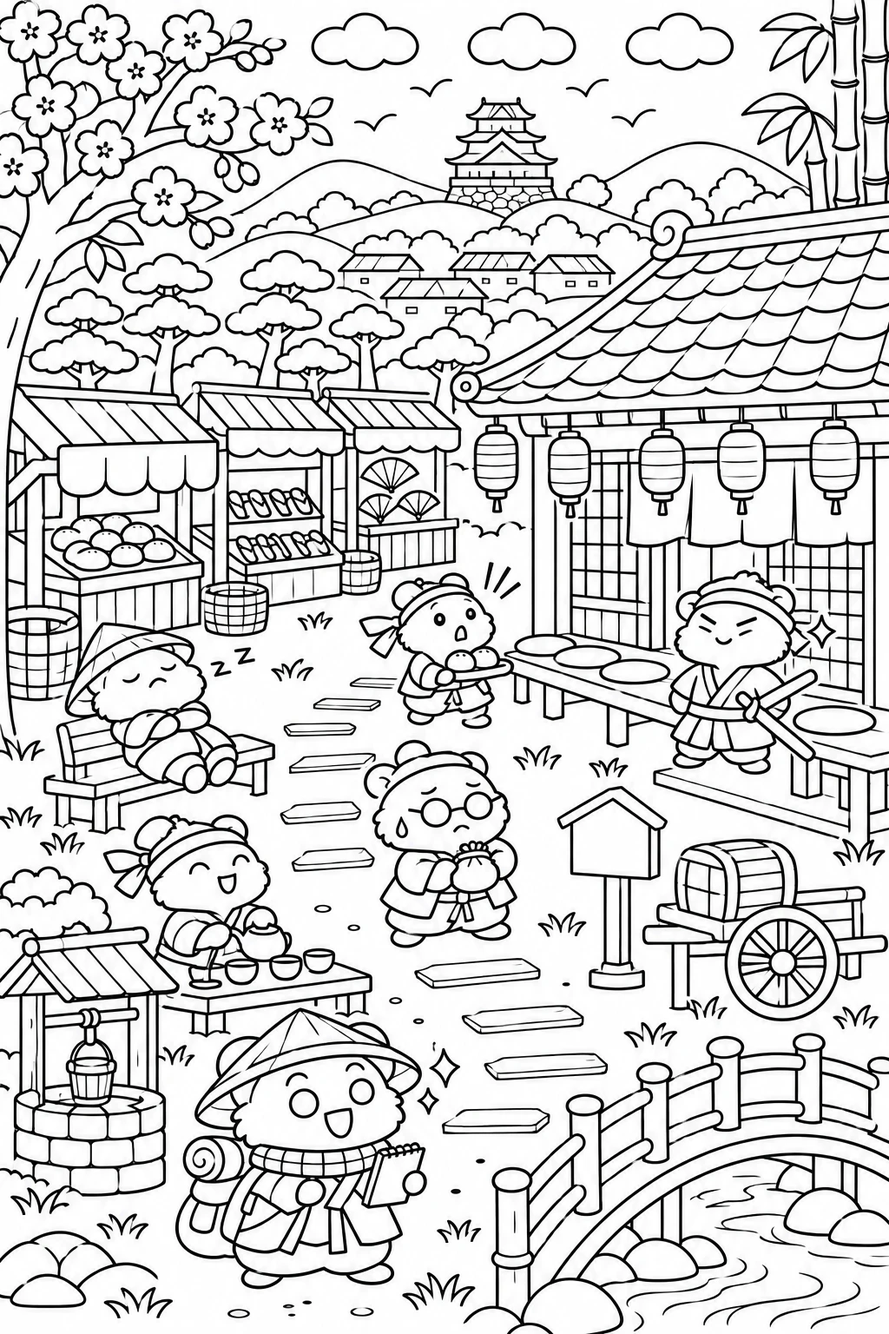
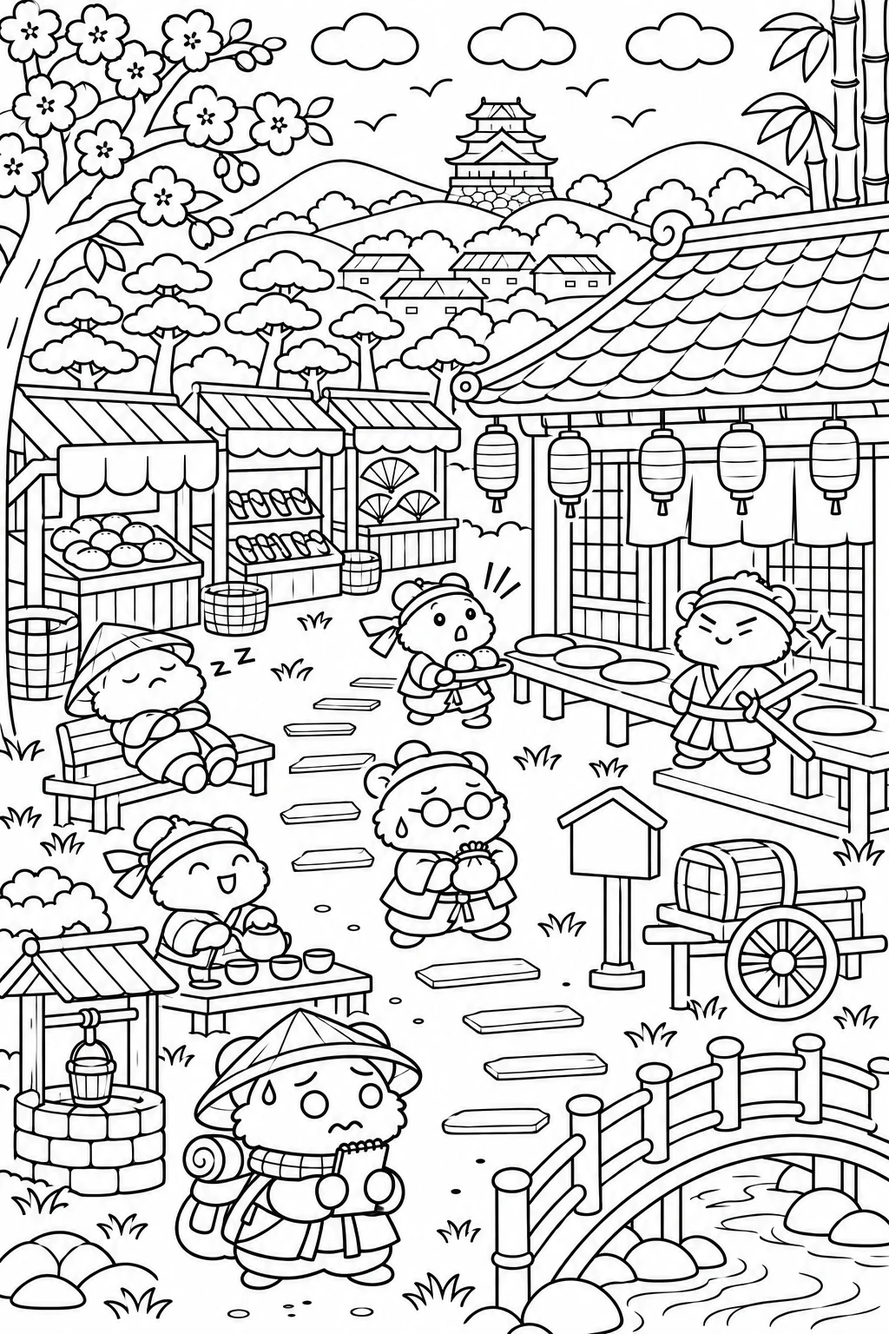
Add 30-emotion library with per-scene rotation; update samurai page
Claude-Session: https://claude.ai/code/session_01NtbvEdzR1nxo1XkVFvAmPr

diff --git a/coloring-book/ai_workflow/make_emotions.py b/coloring-book/ai_workflow/make_emotions.py
@@ -1,0 +1,100 @@
+#!/usr/bin/env python3
+"""Tạo EMOTIONS.md: thư viện 30 biểu cảm hamster và bảng xoay vòng để mỗi trang mỗi con một cảm xúc mới.
+
+Chạy:  python3 ai_workflow/make_emotions.py
+"""
+from __future__ import annotations
+
+from pathlib import Path
+
+HERE = Path(__file__).resolve().parent
+
+# (tên, công thức vẽ khuôn mặt: lông mày, mắt, miệng, dấu phụ) — toàn nét đơn, mắt luôn là vòng rỗng
+EMOTIONS = [
+    ("Vui sướng", "eyebrows relaxed and rounded; eyes as two happy closed arcs; mouth wide open smile; two small sparkle marks"),
+    ("Ngạc nhiên", "eyebrows raised high; eyes as two wide open empty circles; mouth a small open oval; three short burst lines by the head"),
+    ("Lo lắng", "eyebrows tilted upward in the middle; eyes as small empty circles looking sideways; mouth a short wavy line; one sweat drop"),
+    ("Cáu kỉnh", "eyebrows slanted down toward the center; eyes as half-closed arcs; mouth a short downward line; small anger mark (four short lines in a cross)"),
+    ("Buồn ngủ", "no eyebrows; eyes as closed downward arcs; small relaxed mouth; one small 'z' mark drawn as a simple zigzag"),
+    ("Tập trung", "eyebrows slightly lowered; eyes as small empty circles looking at the task; tongue sticking out of a small mouth"),
+    ("Tự tin", "one eyebrow raised; eyes as half-moon arcs; a confident smirk drawn as a one-sided curved line; small shine mark"),
+    ("Buồn", "eyebrows tilted upward in the middle and low at the sides; eyes as small empty circles looking down; mouth a small downward curve; one tear drop"),
+    ("Khóc", "eyebrows tilted upward; eyes as tightly closed arcs; mouth wide open in a wobbly shape; two tear streams"),
+    ("Xấu hổ", "eyebrows tilted; eyes as small circles looking away; mouth a tiny wavy line; three short hatch marks on the cheek drawn as simple lines (no shading)"),
+    ("Sợ hãi", "eyebrows raised and tilted; eyes as wide empty circles with tiny circles inside; mouth a trembling zigzag line; shiver lines on both sides of the head"),
+    ("Tò mò", "one eyebrow raised; eyes as big empty circles looking up; mouth a tiny 'o'; a small question-mark shape drawn as a plain curved line with a dot"),
+    ("Bối rối", "eyebrows uneven; eyes as spirals (outline only); mouth a crooked line; a few small swirl marks"),
+    ("Nghi ngờ", "one eyebrow raised, one lowered; eyes as narrow slits; mouth a flat line shifted to one side"),
+    ("Đắc ý", "eyebrows lifted; eyes as upward arcs; wide grin with a visible tooth line; small shine marks"),
+    ("Thèm ăn", "eyebrows raised; eyes as big empty circles with small star shapes inside; mouth open with a small drool drop"),
+    ("Mệt mỏi", "eyebrows drooping; eyes as half-closed arcs; mouth a long flat wobbly line; one small sweat drop and puff marks"),
+    ("Hào hứng", "eyebrows high; eyes as big empty circles; mouth wide open in a shout; small motion lines around the head"),
+    ("Mơ màng", "eyebrows soft; eyes as closed upward arcs; small smile; two small heart outlines floating nearby"),
+    ("Tức giận", "eyebrows slanted sharply down; eyes as narrow slits; mouth a wavy clenched line showing a tooth line; two anger marks"),
+    ("Hoảng hốt", "eyebrows high and tilted; eyes as tiny empty circles; mouth wide open in a wobbly oval; four sweat drops flying outward"),
+    ("Thanh thản", "no eyebrows or soft ones; eyes as closed downward arcs; small calm smile; a small leaf or flower outline nearby"),
+    ("Tinh nghịch", "one eyebrow raised; eyes as one open circle and one wink arc; tongue sticking out; small shine mark"),
+    ("Cảm động", "eyebrows tilted upward; eyes as arcs with wet shapes; mouth a small wobbly smile; two tear drops and two sparkle marks"),
+    ("Ngượng ngùng", "eyebrows tilted; eyes closed arcs; mouth a tiny crooked smile; one sweat drop and a hand scratching the back of the head"),
+    ("Kiêu hãnh", "chin lifted; eyebrows calm; eyes as closed arcs; closed smile; arms crossed; small shine marks"),
+    ("Cô đơn", "eyebrows low; eyes as small empty circles looking to the side; mouth a small flat line; plain empty space around it"),
+    ("Hồi hộp", "eyebrows tilted upward; eyes as wide empty circles; mouth a tight small line; two sweat drops and a few shiver lines"),
+    ("Nhẹ nhõm", "eyebrows lifted then relaxed; eyes as closed arcs; mouth a smile with a small exhale puff drawn as a cloud outline"),
+    ("Quyết tâm", "eyebrows slanted down firmly; eyes as steady empty circles; mouth a firm straight line; a fist raised; small flame-like motion lines"),
+]
+
+# Các cảm xúc đã dùng trong trang ninja/học đường/samurai (để tránh lặp trong các trang sau)
+USED = {"Ngạc nhiên", "Lo lắng", "Cáu kỉnh", "Buồn ngủ", "Tập trung", "Vui sướng", "Tự tin"}
+
+SCENES = [
+    (4, "Thể thao: giải bóng chuyền trên bãi cát"),
+    (5, "Cô gái phép thuật: biến hình bằng bút thần (nhân vật do bạn đặt)"),
+    (6, "Thi nấu ăn: quán ramen và sân thi nấu"),
+    (7, "Robot: xưởng robot dễ thương"),
+    (8, "Trinh thám: phố đêm, tìm manh mối"),
+    (9, "Âm nhạc: sân khấu lễ hội mùa hè"),
+    (10, "Cắm trại: hồ núi, lều, bếp củi"),
+]
+
+
+def main():
+    unused = [e for e in EMOTIONS if e[0] not in USED]
+    used = [e for e in EMOTIONS if e[0] in USED]
+    pool = unused + used                      # dùng hết cảm xúc chưa dùng trước, rồi mới lặp lại
+    out = []
+    out.append("# Thư viện 30 biểu cảm hamster\n")
+    out.append("Mỗi con mỗi trang một cảm xúc **khác trang trước**. Công thức đều là **nét đơn, mắt rỗng** để người tô thoải mái. "
+               "Chú lữ khách mỗi trang một cảm xúc riêng (ô cuối của mỗi bảng).\n")
+    out.append("## 30 biểu cảm\n")
+    out.append("| # | Cảm xúc | Công thức vẽ (tiếng Anh, dán vào prompt) |\n|---|---|---|")
+    for i, (n, r) in enumerate(EMOTIONS, 1):
+        mark = " *(đã dùng)*" if n in USED else ""
+        out.append(f"| {i} | {n}{mark} | {r} |")
+    out.append("\n## Phân công cho cảnh 4 đến 10\n")
+    out.append(f"Có {len(unused)} cảm xúc chưa dùng. Mỗi trang cần 6 cảm xúc (5 hamster và chú lữ khách), nên từ trang thứ 4 trở đi bắt đầu lặp lại một ít, "
+               "nhưng luôn ở con khác và trang khác.\n")
+    idx = 0
+    for sn, title in SCENES:
+        picks = []
+        for _ in range(6):
+            picks.append(pool[idx % len(pool)])
+            idx += 1
+        out.append(f"### Cảnh {sn}: {title}\n")
+        out.append("| Con | Cảm xúc | Công thức |\n|---|---|---|")
+        for k, (n, r) in enumerate(picks):
+            who = "Chú lữ khách" if k == 5 else f"Hamster {k + 1}"
+            out.append(f"| {who} | {n} | {r} |")
+        out.append("\nKhối dán vào prompt (dán sau phần Characters, thay cho mọi mô tả cảm xúc khác):\n")
+        out.append("```")
+        out.append("EMOTIONS: every hamster has a DIFFERENT emotion, one per hamster, and each emotion must clearly differ from the others on this page. "
+                   "Assign them to the hamsters in the way that fits what each one is doing. Keep every face simple: eyes are empty outlines only (never filled black, no pupils, no highlight dots), no blush, no gray.")
+        for k, (n, r) in enumerate(picks):
+            who = "The traveler hamster in front" if k == 5 else f"Hamster {k + 1}"
+            out.append(f"- {who}: {n.upper()}. {r}.")
+        out.append("```\n")
+    (HERE / "EMOTIONS.md").write_text("\n".join(out), encoding="utf-8")
+    print("OK ->", HERE / "EMOTIONS.md", "|", len(unused), "cảm xúc chưa dùng")
+
+
+if __name__ == "__main__":
+    main()

diff --git a/coloring-book/ai_workflow/EMOTIONS.md b/coloring-book/ai_workflow/EMOTIONS.md
@@ -1,0 +1,203 @@
+# Thư viện 30 biểu cảm hamster
+
+Mỗi con mỗi trang một cảm xúc **khác trang trước**. Công thức đều là **nét đơn, mắt rỗng** để người tô thoải mái. Chú lữ khách mỗi trang một cảm xúc riêng (ô cuối của mỗi bảng).
+
+## 30 biểu cảm
+
+| # | Cảm xúc | Công thức vẽ (tiếng Anh, dán vào prompt) |
+|---|---|---|
+| 1 | Vui sướng *(đã dùng)* | eyebrows relaxed and rounded; eyes as two happy closed arcs; mouth wide open smile; two small sparkle marks |
+| 2 | Ngạc nhiên *(đã dùng)* | eyebrows raised high; eyes as two wide open empty circles; mouth a small open oval; three short burst lines by the head |
+| 3 | Lo lắng *(đã dùng)* | eyebrows tilted upward in the middle; eyes as small empty circles looking sideways; mouth a short wavy line; one sweat drop |
+| 4 | Cáu kỉnh *(đã dùng)* | eyebrows slanted down toward the center; eyes as half-closed arcs; mouth a short downward line; small anger mark (four short lines in a cross) |
+| 5 | Buồn ngủ *(đã dùng)* | no eyebrows; eyes as closed downward arcs; small relaxed mouth; one small 'z' mark drawn as a simple zigzag |
+| 6 | Tập trung *(đã dùng)* | eyebrows slightly lowered; eyes as small empty circles looking at the task; tongue sticking out of a small mouth |
+| 7 | Tự tin *(đã dùng)* | one eyebrow raised; eyes as half-moon arcs; a confident smirk drawn as a one-sided curved line; small shine mark |
+| 8 | Buồn | eyebrows tilted upward in the middle and low at the sides; eyes as small empty circles looking down; mouth a small downward curve; one tear drop |
+| 9 | Khóc | eyebrows tilted upward; eyes as tightly closed arcs; mouth wide open in a wobbly shape; two tear streams |
+| 10 | Xấu hổ | eyebrows tilted; eyes as small circles looking away; mouth a tiny wavy line; three short hatch marks on the cheek drawn as simple lines (no shading) |
+| 11 | Sợ hãi | eyebrows raised and tilted; eyes as wide empty circles with tiny circles inside; mouth a trembling zigzag line; shiver lines on both sides of the head |
+| 12 | Tò mò | one eyebrow raised; eyes as big empty circles looking up; mouth a tiny 'o'; a small question-mark shape drawn as a plain curved line with a dot |
+| 13 | Bối rối | eyebrows uneven; eyes as spirals (outline only); mouth a crooked line; a few small swirl marks |
+| 14 | Nghi ngờ | one eyebrow raised, one lowered; eyes as narrow slits; mouth a flat line shifted to one side |
+| 15 | Đắc ý | eyebrows lifted; eyes as upward arcs; wide grin with a visible tooth line; small shine marks |
+| 16 | Thèm ăn | eyebrows raised; eyes as big empty circles with small star shapes inside; mouth open with a small drool drop |
+| 17 | Mệt mỏi | eyebrows drooping; eyes as half-closed arcs; mouth a long flat wobbly line; one small sweat drop and puff marks |
+| 18 | Hào hứng | eyebrows high; eyes as big empty circles; mouth wide open in a shout; small motion lines around the head |
+| 19 | Mơ màng | eyebrows soft; eyes as closed upward arcs; small smile; two small heart outlines floating nearby |
+| 20 | Tức giận | eyebrows slanted sharply down; eyes as narrow slits; mouth a wavy clenched line showing a tooth line; two anger marks |
+| 21 | Hoảng hốt | eyebrows high and tilted; eyes as tiny empty circles; mouth wide open in a wobbly oval; four sweat drops flying outward |
+| 22 | Thanh thản | no eyebrows or soft ones; eyes as closed downward arcs; small calm smile; a small leaf or flower outline nearby |
+| 23 | Tinh nghịch | one eyebrow raised; eyes as one open circle and one wink arc; tongue sticking out; small shine mark |
+| 24 | Cảm động | eyebrows tilted upward; eyes as arcs with wet shapes; mouth a small wobbly smile; two tear drops and two sparkle marks |
+| 25 | Ngượng ngùng | eyebrows tilted; eyes closed arcs; mouth a tiny crooked smile; one sweat drop and a hand scratching the back of the head |
+| 26 | Kiêu hãnh | chin lifted; eyebrows calm; eyes as closed arcs; closed smile; arms crossed; small shine marks |
+| 27 | Cô đơn | eyebrows low; eyes as small empty circles looking to the side; mouth a small flat line; plain empty space around it |
+| 28 | Hồi hộp | eyebrows tilted upward; eyes as wide empty circles; mouth a tight small line; two sweat drops and a few shiver lines |
+| 29 | Nhẹ nhõm | eyebrows lifted then relaxed; eyes as closed arcs; mouth a smile with a small exhale puff drawn as a cloud outline |
+| 30 | Quyết tâm | eyebrows slanted down firmly; eyes as steady empty circles; mouth a firm straight line; a fist raised; small flame-like motion lines |
+
+## Phân công cho cảnh 4 đến 10
+
+Có 23 cảm xúc chưa dùng. Mỗi trang cần 6 cảm xúc (5 hamster và chú lữ khách), nên từ trang thứ 4 trở đi bắt đầu lặp lại một ít, nhưng luôn ở con khác và trang khác.
+
+### Cảnh 4: Thể thao: giải bóng chuyền trên bãi cát
+
+| Con | Cảm xúc | Công thức |
+|---|---|---|
+| Hamster 1 | Buồn | eyebrows tilted upward in the middle and low at the sides; eyes as small empty circles looking down; mouth a small downward curve; one tear drop |
+| Hamster 2 | Khóc | eyebrows tilted upward; eyes as tightly closed arcs; mouth wide open in a wobbly shape; two tear streams |
+| Hamster 3 | Xấu hổ | eyebrows tilted; eyes as small circles looking away; mouth a tiny wavy line; three short hatch marks on the cheek drawn as simple lines (no shading) |
+| Hamster 4 | Sợ hãi | eyebrows raised and tilted; eyes as wide empty circles with tiny circles inside; mouth a trembling zigzag line; shiver lines on both sides of the head |
+| Hamster 5 | Tò mò | one eyebrow raised; eyes as big empty circles looking up; mouth a tiny 'o'; a small question-mark shape drawn as a plain curved line with a dot |
+| Chú lữ khách | Bối rối | eyebrows uneven; eyes as spirals (outline only); mouth a crooked line; a few small swirl marks |
+
+Khối dán vào prompt (dán sau phần Characters, thay cho mọi mô tả cảm xúc khác):
+
+```
+EMOTIONS: every hamster has a DIFFERENT emotion, one per hamster, and each emotion must clearly differ from the others on this page. Assign them to the hamsters in the way that fits what each one is doing. Keep every face simple: eyes are empty outlines only (never filled black, no pupils, no highlight dots), no blush, no gray.
+- Hamster 1: BUỒN. eyebrows tilted upward in the middle and low at the sides; eyes as small empty circles looking down; mouth a small downward curve; one tear drop.
+- Hamster 2: KHÓC. eyebrows tilted upward; eyes as tightly closed arcs; mouth wide open in a wobbly shape; two tear streams.
+- Hamster 3: XẤU HỔ. eyebrows tilted; eyes as small circles looking away; mouth a tiny wavy line; three short hatch marks on the cheek drawn as simple lines (no shading).
+- Hamster 4: SỢ HÃI. eyebrows raised and tilted; eyes as wide empty circles with tiny circles inside; mouth a trembling zigzag line; shiver lines on both sides of the head.
+- Hamster 5: TÒ MÒ. one eyebrow raised; eyes as big empty circles looking up; mouth a tiny 'o'; a small question-mark shape drawn as a plain curved line with a dot.
+- The traveler hamster in front: BỐI RỐI. eyebrows uneven; eyes as spirals (outline only); mouth a crooked line; a few small swirl marks.
+```
+
+### Cảnh 5: Cô gái phép thuật: biến hình bằng bút thần (nhân vật do bạn đặt)
+
+| Con | Cảm xúc | Công thức |
+|---|---|---|
+| Hamster 1 | Nghi ngờ | one eyebrow raised, one lowered; eyes as narrow slits; mouth a flat line shifted to one side |
+| Hamster 2 | Đắc ý | eyebrows lifted; eyes as upward arcs; wide grin with a visible tooth line; small shine marks |
+| Hamster 3 | Thèm ăn | eyebrows raised; eyes as big empty circles with small star shapes inside; mouth open with a small drool drop |
+| Hamster 4 | Mệt mỏi | eyebrows drooping; eyes as half-closed arcs; mouth a long flat wobbly line; one small sweat drop and puff marks |
+| Hamster 5 | Hào hứng | eyebrows high; eyes as big empty circles; mouth wide open in a shout; small motion lines around the head |
+| Chú lữ khách | Mơ màng | eyebrows soft; eyes as closed upward arcs; small smile; two small heart outlines floating nearby |
+
+Khối dán vào prompt (dán sau phần Characters, thay cho mọi mô tả cảm xúc khác):
+
+```
+EMOTIONS: every hamster has a DIFFERENT emotion, one per hamster, and each emotion must clearly differ from the others on this page. Assign them to the hamsters in the way that fits what each one is doing. Keep every face simple: eyes are empty outlines only (never filled black, no pupils, no highlight dots), no blush, no gray.
+- Hamster 1: NGHI NGỜ. one eyebrow raised, one lowered; eyes as narrow slits; mouth a flat line shifted to one side.
+- Hamster 2: ĐẮC Ý. eyebrows lifted; eyes as upward arcs; wide grin with a visible tooth line; small shine marks.
+- Hamster 3: THÈM ĂN. eyebrows raised; eyes as big empty circles with small star shapes inside; mouth open with a small drool drop.
+- Hamster 4: MỆT MỎI. eyebrows drooping; eyes as half-closed arcs; mouth a long flat wobbly line; one small sweat drop and puff marks.
+- Hamster 5: HÀO HỨNG. eyebrows high; eyes as big empty circles; mouth wide open in a shout; small motion lines around the head.
+- The traveler hamster in front: MƠ MÀNG. eyebrows soft; eyes as closed upward arcs; small smile; two small heart outlines floating nearby.
+```
+
+### Cảnh 6: Thi nấu ăn: quán ramen và sân thi nấu
+
+| Con | Cảm xúc | Công thức |
+|---|---|---|
+| Hamster 1 | Tức giận | eyebrows slanted sharply down; eyes as narrow slits; mouth a wavy clenched line showing a tooth line; two anger marks |
+| Hamster 2 | Hoảng hốt | eyebrows high and tilted; eyes as tiny empty circles; mouth wide open in a wobbly oval; four sweat drops flying outward |
+| Hamster 3 | Thanh thản | no eyebrows or soft ones; eyes as closed downward arcs; small calm smile; a small leaf or flower outline nearby |
+| Hamster 4 | Tinh nghịch | one eyebrow raised; eyes as one open circle and one wink arc; tongue sticking out; small shine mark |
+| Hamster 5 | Cảm động | eyebrows tilted upward; eyes as arcs with wet shapes; mouth a small wobbly smile; two tear drops and two sparkle marks |
+| Chú lữ khách | Ngượng ngùng | eyebrows tilted; eyes closed arcs; mouth a tiny crooked smile; one sweat drop and a hand scratching the back of the head |
+
+Khối dán vào prompt (dán sau phần Characters, thay cho mọi mô tả cảm xúc khác):
+
+```
+EMOTIONS: every hamster has a DIFFERENT emotion, one per hamster, and each emotion must clearly differ from the others on this page. Assign them to the hamsters in the way that fits what each one is doing. Keep every face simple: eyes are empty outlines only (never filled black, no pupils, no highlight dots), no blush, no gray.
+- Hamster 1: TỨC GIẬN. eyebrows slanted sharply down; eyes as narrow slits; mouth a wavy clenched line showing a tooth line; two anger marks.
+- Hamster 2: HOẢNG HỐT. eyebrows high and tilted; eyes as tiny empty circles; mouth wide open in a wobbly oval; four sweat drops flying outward.
+- Hamster 3: THANH THẢN. no eyebrows or soft ones; eyes as closed downward arcs; small calm smile; a small leaf or flower outline nearby.
+- Hamster 4: TINH NGHỊCH. one eyebrow raised; eyes as one open circle and one wink arc; tongue sticking out; small shine mark.
+- Hamster 5: CẢM ĐỘNG. eyebrows tilted upward; eyes as arcs with wet shapes; mouth a small wobbly smile; two tear drops and two sparkle marks.
+- The traveler hamster in front: NGƯỢNG NGÙNG. eyebrows tilted; eyes closed arcs; mouth a tiny crooked smile; one sweat drop and a hand scratching the back of the head.
+```
+
+### Cảnh 7: Robot: xưởng robot dễ thương
+
+| Con | Cảm xúc | Công thức |
+|---|---|---|
+| Hamster 1 | Kiêu hãnh | chin lifted; eyebrows calm; eyes as closed arcs; closed smile; arms crossed; small shine marks |
+| Hamster 2 | Cô đơn | eyebrows low; eyes as small empty circles looking to the side; mouth a small flat line; plain empty space around it |
+| Hamster 3 | Hồi hộp | eyebrows tilted upward; eyes as wide empty circles; mouth a tight small line; two sweat drops and a few shiver lines |
+| Hamster 4 | Nhẹ nhõm | eyebrows lifted then relaxed; eyes as closed arcs; mouth a smile with a small exhale puff drawn as a cloud outline |
+| Hamster 5 | Quyết tâm | eyebrows slanted down firmly; eyes as steady empty circles; mouth a firm straight line; a fist raised; small flame-like motion lines |
+| Chú lữ khách | Vui sướng | eyebrows relaxed and rounded; eyes as two happy closed arcs; mouth wide open smile; two small sparkle marks |
+
+Khối dán vào prompt (dán sau phần Characters, thay cho mọi mô tả cảm xúc khác):
+
+```
+EMOTIONS: every hamster has a DIFFERENT emotion, one per hamster, and each emotion must clearly differ from the others on this page. Assign them to the hamsters in the way that fits what each one is doing. Keep every face simple: eyes are empty outlines only (never filled black, no pupils, no highlight dots), no blush, no gray.
+- Hamster 1: KIÊU HÃNH. chin lifted; eyebrows calm; eyes as closed arcs; closed smile; arms crossed; small shine marks.
+- Hamster 2: CÔ ĐƠN. eyebrows low; eyes as small empty circles looking to the side; mouth a small flat line; plain empty space around it.
+- Hamster 3: HỒI HỘP. eyebrows tilted upward; eyes as wide empty circles; mouth a tight small line; two sweat drops and a few shiver lines.
+- Hamster 4: NHẸ NHÕM. eyebrows lifted then relaxed; eyes as closed arcs; mouth a smile with a small exhale puff drawn as a cloud outline.
+- Hamster 5: QUYẾT TÂM. eyebrows slanted down firmly; eyes as steady empty circles; mouth a firm straight line; a fist raised; small flame-like motion lines.
+- The traveler hamster in front: VUI SƯỚNG. eyebrows relaxed and rounded; eyes as two happy closed arcs; mouth wide open smile; two small sparkle marks.
+```
+
+### Cảnh 8: Trinh thám: phố đêm, tìm manh mối
+
+| Con | Cảm xúc | Công thức |
+|---|---|---|
+| Hamster 1 | Ngạc nhiên | eyebrows raised high; eyes as two wide open empty circles; mouth a small open oval; three short burst lines by the head |
+| Hamster 2 | Lo lắng | eyebrows tilted upward in the middle; eyes as small empty circles looking sideways; mouth a short wavy line; one sweat drop |
+| Hamster 3 | Cáu kỉnh | eyebrows slanted down toward the center; eyes as half-closed arcs; mouth a short downward line; small anger mark (four short lines in a cross) |
+| Hamster 4 | Buồn ngủ | no eyebrows; eyes as closed downward arcs; small relaxed mouth; one small 'z' mark drawn as a simple zigzag |
+| Hamster 5 | Tập trung | eyebrows slightly lowered; eyes as small empty circles looking at the task; tongue sticking out of a small mouth |
+| Chú lữ khách | Tự tin | one eyebrow raised; eyes as half-moon arcs; a confident smirk drawn as a one-sided curved line; small shine mark |
+
+Khối dán vào prompt (dán sau phần Characters, thay cho mọi mô tả cảm xúc khác):
+
+```
+EMOTIONS: every hamster has a DIFFERENT emotion, one per hamster, and each emotion must clearly differ from the others on this page. Assign them to the hamsters in the way that fits what each one is doing. Keep every face simple: eyes are empty outlines only (never filled black, no pupils, no highlight dots), no blush, no gray.
+- Hamster 1: NGẠC NHIÊN. eyebrows raised high; eyes as two wide open empty circles; mouth a small open oval; three short burst lines by the head.
+- Hamster 2: LO LẮNG. eyebrows tilted upward in the middle; eyes as small empty circles looking sideways; mouth a short wavy line; one sweat drop.
+- Hamster 3: CÁU KỈNH. eyebrows slanted down toward the center; eyes as half-closed arcs; mouth a short downward line; small anger mark (four short lines in a cross).
+- Hamster 4: BUỒN NGỦ. no eyebrows; eyes as closed downward arcs; small relaxed mouth; one small 'z' mark drawn as a simple zigzag.
+- Hamster 5: TẬP TRUNG. eyebrows slightly lowered; eyes as small empty circles looking at the task; tongue sticking out of a small mouth.
+- The traveler hamster in front: TỰ TIN. one eyebrow raised; eyes as half-moon arcs; a confident smirk drawn as a one-sided curved line; small shine mark.
+```
+
+### Cảnh 9: Âm nhạc: sân khấu lễ hội mùa hè
+
+| Con | Cảm xúc | Công thức |
+|---|---|---|
+| Hamster 1 | Buồn | eyebrows tilted upward in the middle and low at the sides; eyes as small empty circles looking down; mouth a small downward curve; one tear drop |
+| Hamster 2 | Khóc | eyebrows tilted upward; eyes as tightly closed arcs; mouth wide open in a wobbly shape; two tear streams |
+| Hamster 3 | Xấu hổ | eyebrows tilted; eyes as small circles looking away; mouth a tiny wavy line; three short hatch marks on the cheek drawn as simple lines (no shading) |
+| Hamster 4 | Sợ hãi | eyebrows raised and tilted; eyes as wide empty circles with tiny circles inside; mouth a trembling zigzag line; shiver lines on both sides of the head |
+| Hamster 5 | Tò mò | one eyebrow raised; eyes as big empty circles looking up; mouth a tiny 'o'; a small question-mark shape drawn as a plain curved line with a dot |
+| Chú lữ khách | Bối rối | eyebrows uneven; eyes as spirals (outline only); mouth a crooked line; a few small swirl marks |
+
+Khối dán vào prompt (dán sau phần Characters, thay cho mọi mô tả cảm xúc khác):
+
+```
+EMOTIONS: every hamster has a DIFFERENT emotion, one per hamster, and each emotion must clearly differ from the others on this page. Assign them to the hamsters in the way that fits what each one is doing. Keep every face simple: eyes are empty outlines only (never filled black, no pupils, no highlight dots), no blush, no gray.
+- Hamster 1: BUỒN. eyebrows tilted upward in the middle and low at the sides; eyes as small empty circles looking down; mouth a small downward curve; one tear drop.
+- Hamster 2: KHÓC. eyebrows tilted upward; eyes as tightly closed arcs; mouth wide open in a wobbly shape; two tear streams.
+- Hamster 3: XẤU HỔ. eyebrows tilted; eyes as small circles looking away; mouth a tiny wavy line; three short hatch marks on the cheek drawn as simple lines (no shading).
+- Hamster 4: SỢ HÃI. eyebrows raised and tilted; eyes as wide empty circles with tiny circles inside; mouth a trembling zigzag line; shiver lines on both sides of the head.
+- Hamster 5: TÒ MÒ. one eyebrow raised; eyes as big empty circles looking up; mouth a tiny 'o'; a small question-mark shape drawn as a plain curved line with a dot.
+- The traveler hamster in front: BỐI RỐI. eyebrows uneven; eyes as spirals (outline only); mouth a crooked line; a few small swirl marks.
+```
+
+### Cảnh 10: Cắm trại: hồ núi, lều, bếp củi
+
+| Con | Cảm xúc | Công thức |
+|---|---|---|
+| Hamster 1 | Nghi ngờ | one eyebrow raised, one lowered; eyes as narrow slits; mouth a flat line shifted to one side |
+| Hamster 2 | Đắc ý | eyebrows lifted; eyes as upward arcs; wide grin with a visible tooth line; small shine marks |
+| Hamster 3 | Thèm ăn | eyebrows raised; eyes as big empty circles with small star shapes inside; mouth open with a small drool drop |
+| Hamster 4 | Mệt mỏi | eyebrows drooping; eyes as half-closed arcs; mouth a long flat wobbly line; one small sweat drop and puff marks |
+| Hamster 5 | Hào hứng | eyebrows high; eyes as big empty circles; mouth wide open in a shout; small motion lines around the head |
+| Chú lữ khách | Mơ màng | eyebrows soft; eyes as closed upward arcs; small smile; two small heart outlines floating nearby |
+
+Khối dán vào prompt (dán sau phần Characters, thay cho mọi mô tả cảm xúc khác):
+
+```
+EMOTIONS: every hamster has a DIFFERENT emotion, one per hamster, and each emotion must clearly differ from the others on this page. Assign them to the hamsters in the way that fits what each one is doing. Keep every face simple: eyes are empty outlines only (never filled black, no pupils, no highlight dots), no blush, no gray.
+- Hamster 1: NGHI NGỜ. one eyebrow raised, one lowered; eyes as narrow slits; mouth a flat line shifted to one side.
+- Hamster 2: ĐẮC Ý. eyebrows lifted; eyes as upward arcs; wide grin with a visible tooth line; small shine marks.
+- Hamster 3: THÈM ĂN. eyebrows raised; eyes as big empty circles with small star shapes inside; mouth open with a small drool drop.
+- Hamster 4: MỆT MỎI. eyebrows drooping; eyes as half-closed arcs; mouth a long flat wobbly line; one small sweat drop and puff marks.
+- Hamster 5: HÀO HỨNG. eyebrows high; eyes as big empty circles; mouth wide open in a shout; small motion lines around the head.
+- The traveler hamster in front: MƠ MÀNG. eyebrows soft; eyes as closed upward arcs; small smile; two small heart outlines floating nearby.
+```
